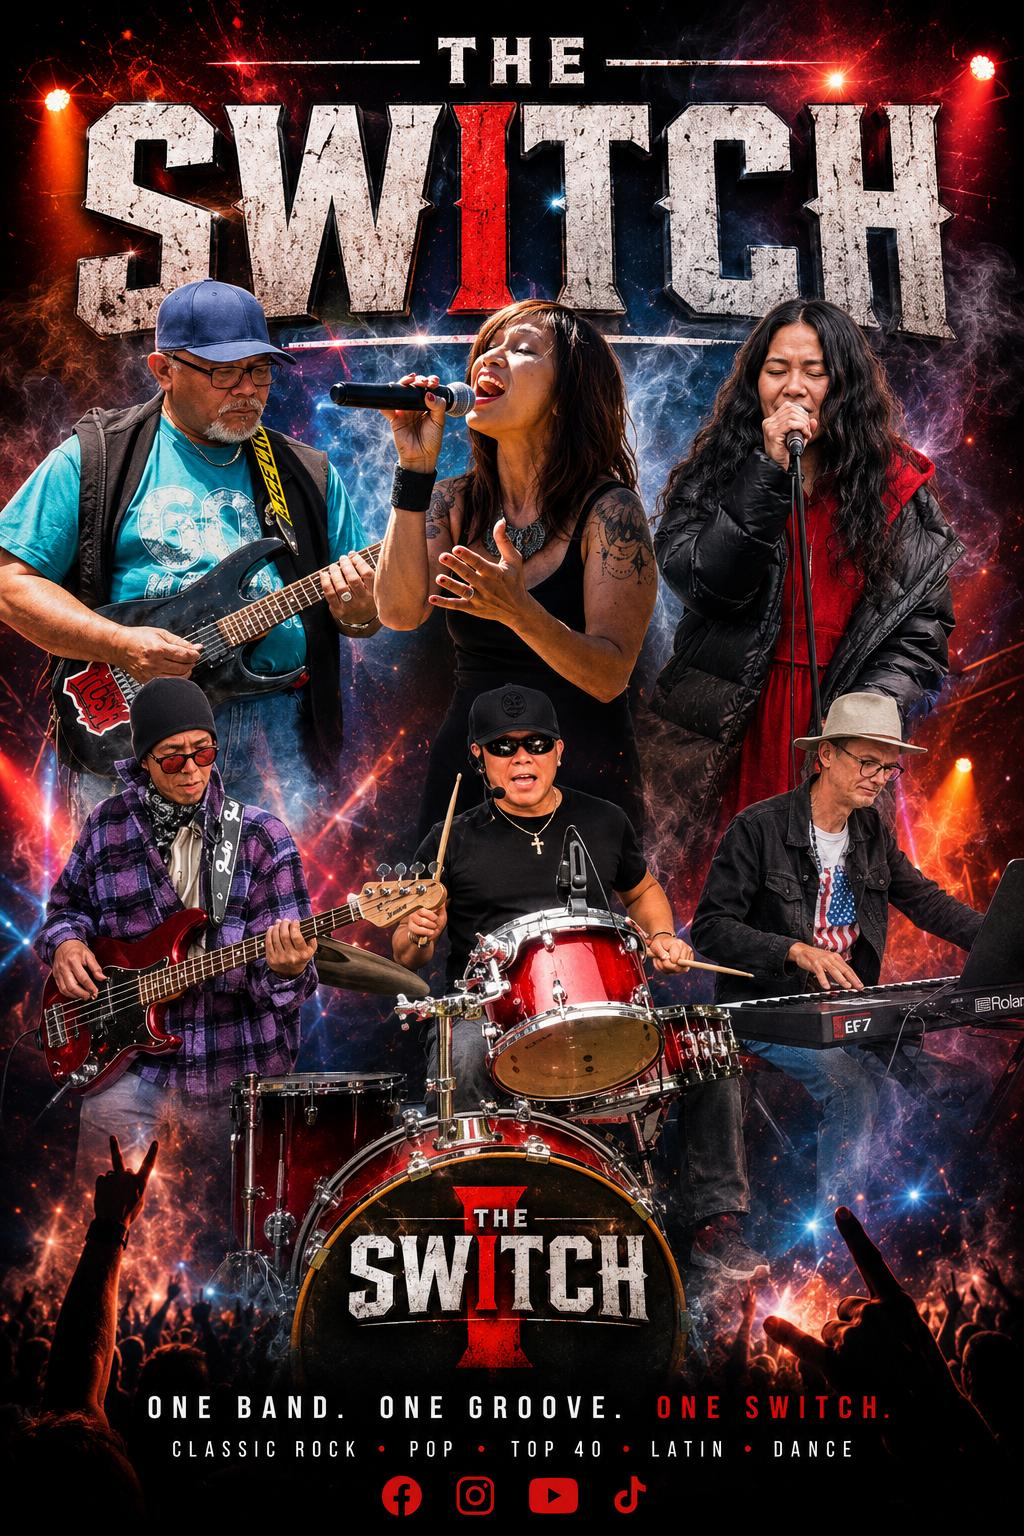
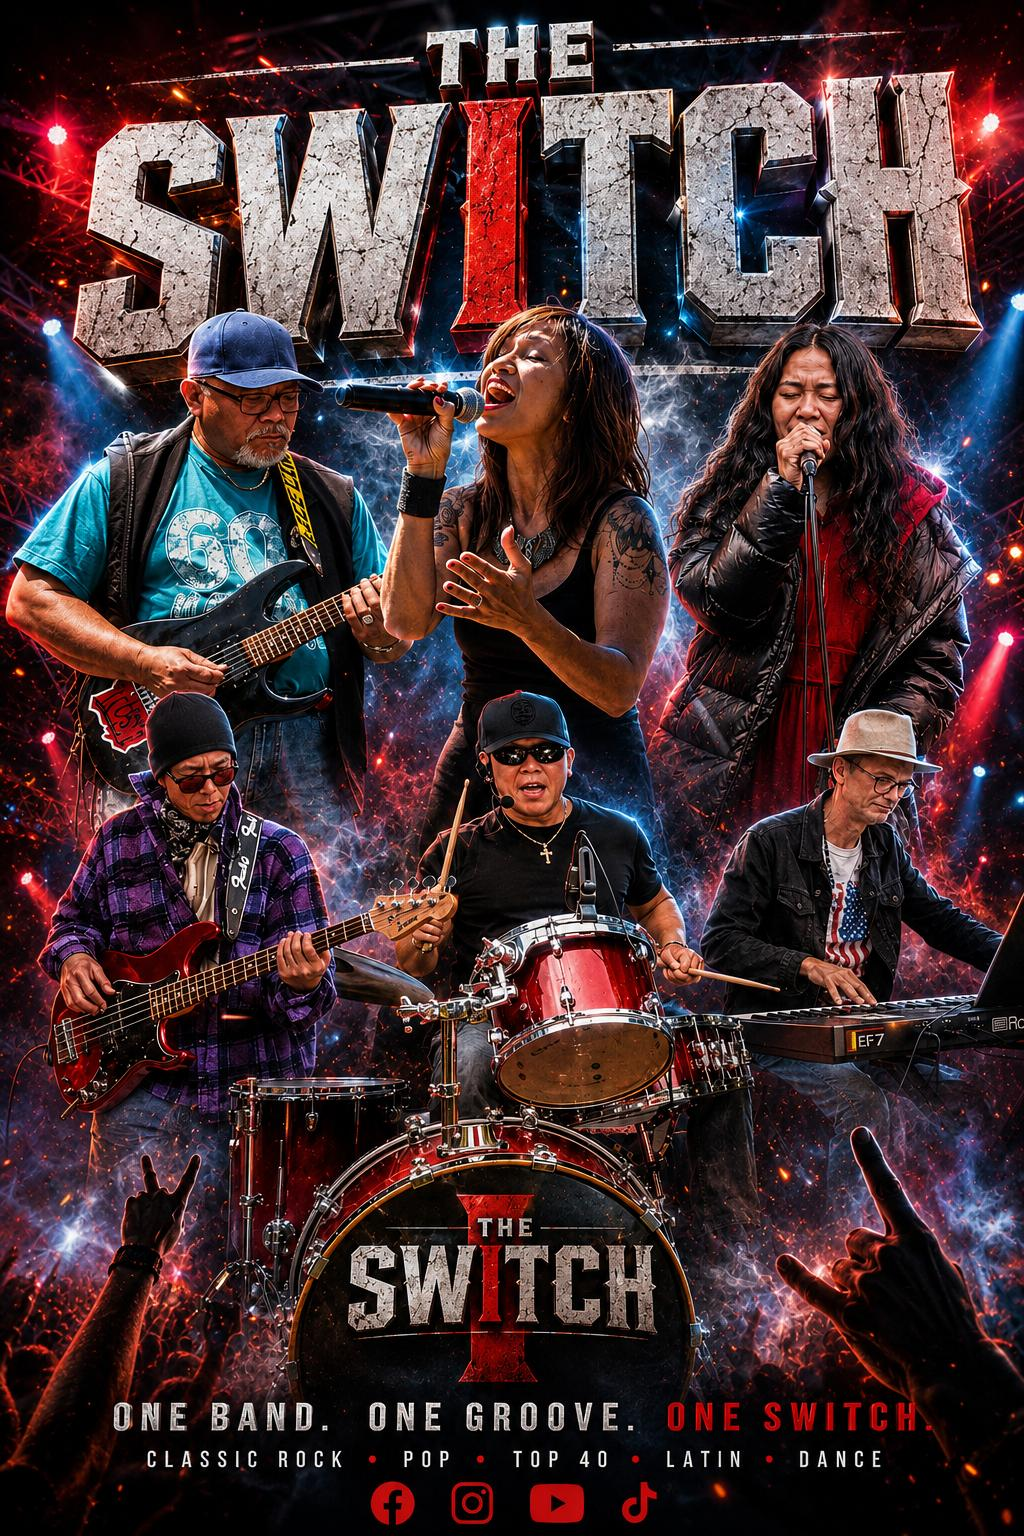
Use new clean ChatGPT-generated wordmark/I assets and finalized poster
Replaces the weathered-stencil intro assets with the polished
transparent-alpha wordmark and glowing red I, recomputed intro
animation coordinates to match, dropped the mix-blend-mode hack now
that real alpha transparency is available, swaps in the finalized
poster art, and fixes the gallery to show the full poster without
cropping.

diff --git a/index.html b/index.html
@@ -14,8 +14,8 @@
   <div id="intro">
     <div class="intro-glow"></div>
     <div class="logo-stage">
-      <img id="introLogo" class="intro-logo" src="assets/wordmark-gap.png" alt="THE SWITCH">
-      <img id="fallingI" class="falling-i" src="assets/i-letter-slot.png" alt="">
+      <img id="introLogo" class="intro-logo" src="assets/wordmark-new-gap.png" alt="THE SWITCH">
+      <img id="fallingI" class="falling-i" src="assets/i-letter-final.png" alt="">
       <div class="impact-flash"></div>
     </div>
     <div id="introTagline" class="intro-tagline">ONE BAND. ONE GROOVE. ONE SWITCH.</div>
@@ -26,7 +26,7 @@
   <div id="site" class="site">
 
     <header class="nav">
-      <div class="nav-logo">THE <span class="red">SW<span class="red-i">I</span>TCH</span></div>
+      <img class="nav-logo" src="assets/wordmark-hero.png" alt="THE SWITCH">
       <nav class="nav-links">
         <a href="#about">About</a>
         <a href="#gallery">Gallery</a>
@@ -38,7 +38,7 @@
     <section class="hero" style="background-image: linear-gradient(180deg, rgba(0,0,0,.55), rgba(0,0,0,.85) 70%, #000), url('assets/poster.jpg');">
       <div class="hero-inner">
         <p class="hero-kicker">6 MUSICIANS &nbsp;•&nbsp; 1 SOUND &nbsp;•&nbsp; ENDLESS ENERGY</p>
-        <h1 class="hero-logo">THE <span class="red">SW<span class="red-i">I</span>TCH</span></h1>
+        <img class="hero-logo" src="assets/wordmark-hero.png" alt="THE SWITCH">
         <p class="hero-genres">CLASSIC ROCK &nbsp;•&nbsp; POP &nbsp;•&nbsp; TOP 40 &nbsp;•&nbsp; LATIN &nbsp;•&nbsp; DANCE</p>
         <a href="#booking" class="cta-btn">BOOK THE SWITCH</a>
       </div>
@@ -75,7 +75,9 @@
     <section id="gallery" class="gallery">
       <h2 class="section-title">GALLERY</h2>
       <div class="gallery-grid">
-        <div class="gallery-item" style="background-image:url('assets/poster.jpg')"></div>
+        <div class="gallery-item gallery-item--full">
+          <img src="assets/poster.jpg" alt="The Switch band poster">
+        </div>
         <div class="gallery-item placeholder">Add photo</div>
         <div class="gallery-item placeholder">Add photo</div>
         <div class="gallery-item placeholder">Add video</div>

diff --git a/css/style.css b/css/style.css
@@ -64,9 +64,9 @@ html, body {
 
 .falling-i {
   position: absolute;
-  left: 43.36%;
-  width: 7.42%;
-  bottom: 10.57%;
+  left: 42.49%;
+  width: 7.87%;
+  bottom: 23.62%;
   filter: drop-shadow(0 0 25px var(--red-glow)) drop-shadow(0 0 55px rgba(224,20,26,.6));
   transform: translateY(-160vh) rotate(-6deg) scaleY(0.85);
   animation: fall 1.1s cubic-bezier(.64,0,.78,1) forwards, wobble .45s ease-out 1.1s;
@@ -88,8 +88,8 @@ html, body {
 
 .impact-flash {
   position: absolute;
-  left: 47.07%;
-  bottom: 10.57%;
+  left: 46.42%;
+  bottom: 23.62%;
   width: 40vw;
   height: 40vw;
   max-width: 500px;
@@ -176,9 +176,8 @@ html, body {
 }
 
 .nav-logo {
-  font-family: 'Anton', sans-serif;
-  font-size: 1.4rem;
-  letter-spacing: 1px;
+  height: 2.4rem;
+  width: auto;
 }
 
 .nav-links { display: flex; gap: 2rem; }
@@ -213,11 +212,10 @@ html, body {
 }
 
 .hero-logo {
-  font-family: 'Anton', sans-serif;
-  font-size: clamp(3rem, 11vw, 7rem);
-  line-height: 0.95;
-  text-shadow: 0 4px 30px rgba(0,0,0,.8);
-  margin-bottom: 1rem;
+  display: block;
+  width: min(90vw, 700px);
+  margin: 0 auto 1rem;
+  filter: drop-shadow(0 4px 30px rgba(0,0,0,.8));
 }
 
 .hero-genres {
@@ -316,6 +314,19 @@ html, body {
   background-position: center;
   border-radius: 6px;
   border: 1px solid #222;
+  overflow: hidden;
+}
+.gallery-item--full {
+  grid-column: 1 / -1;
+  max-width: 420px;
+  margin: 0 auto;
+  aspect-ratio: auto;
+  display: flex;
+}
+.gallery-item--full img {
+  width: 100%;
+  height: auto;
+  display: block;
 }
 .gallery-item.placeholder {
   display: flex;
